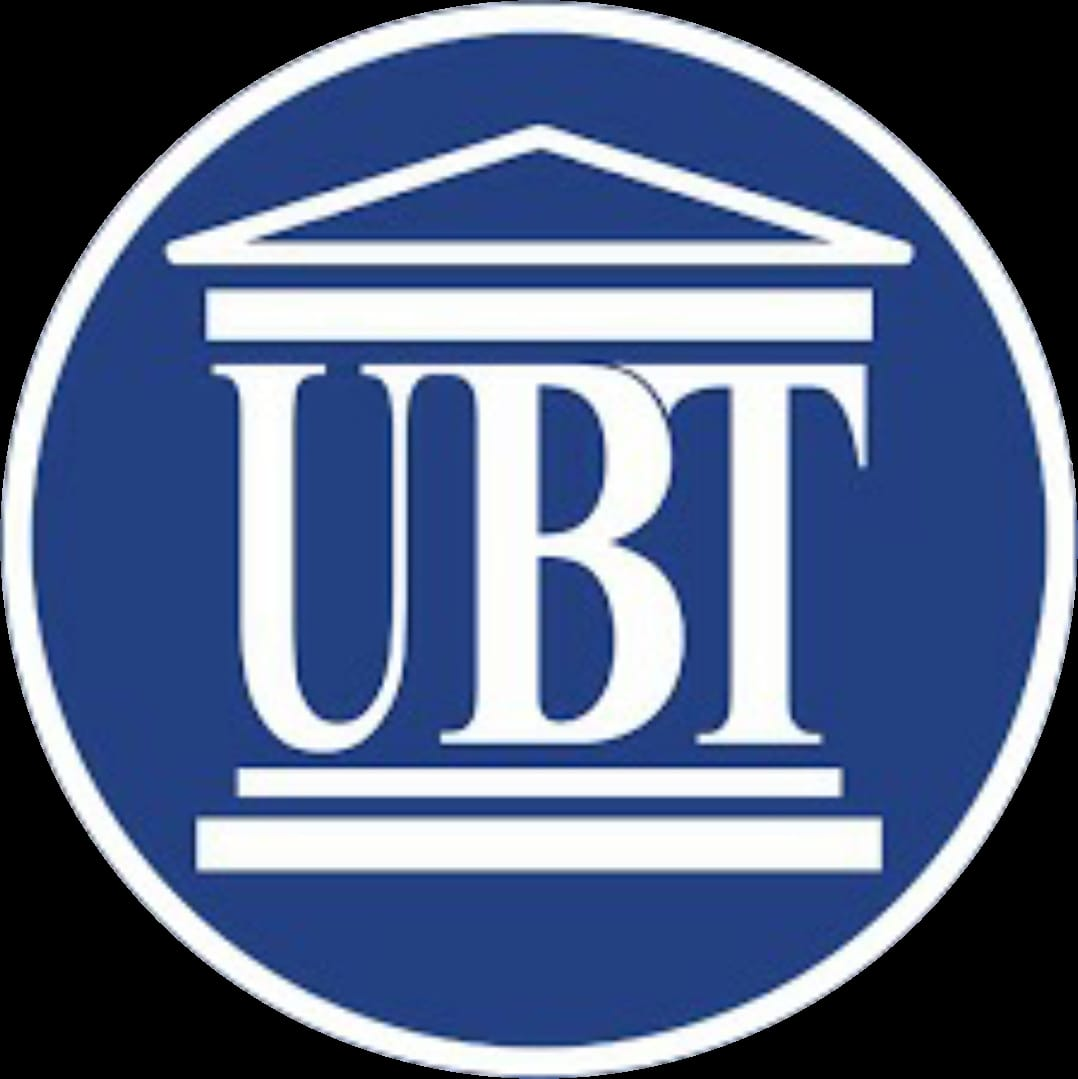
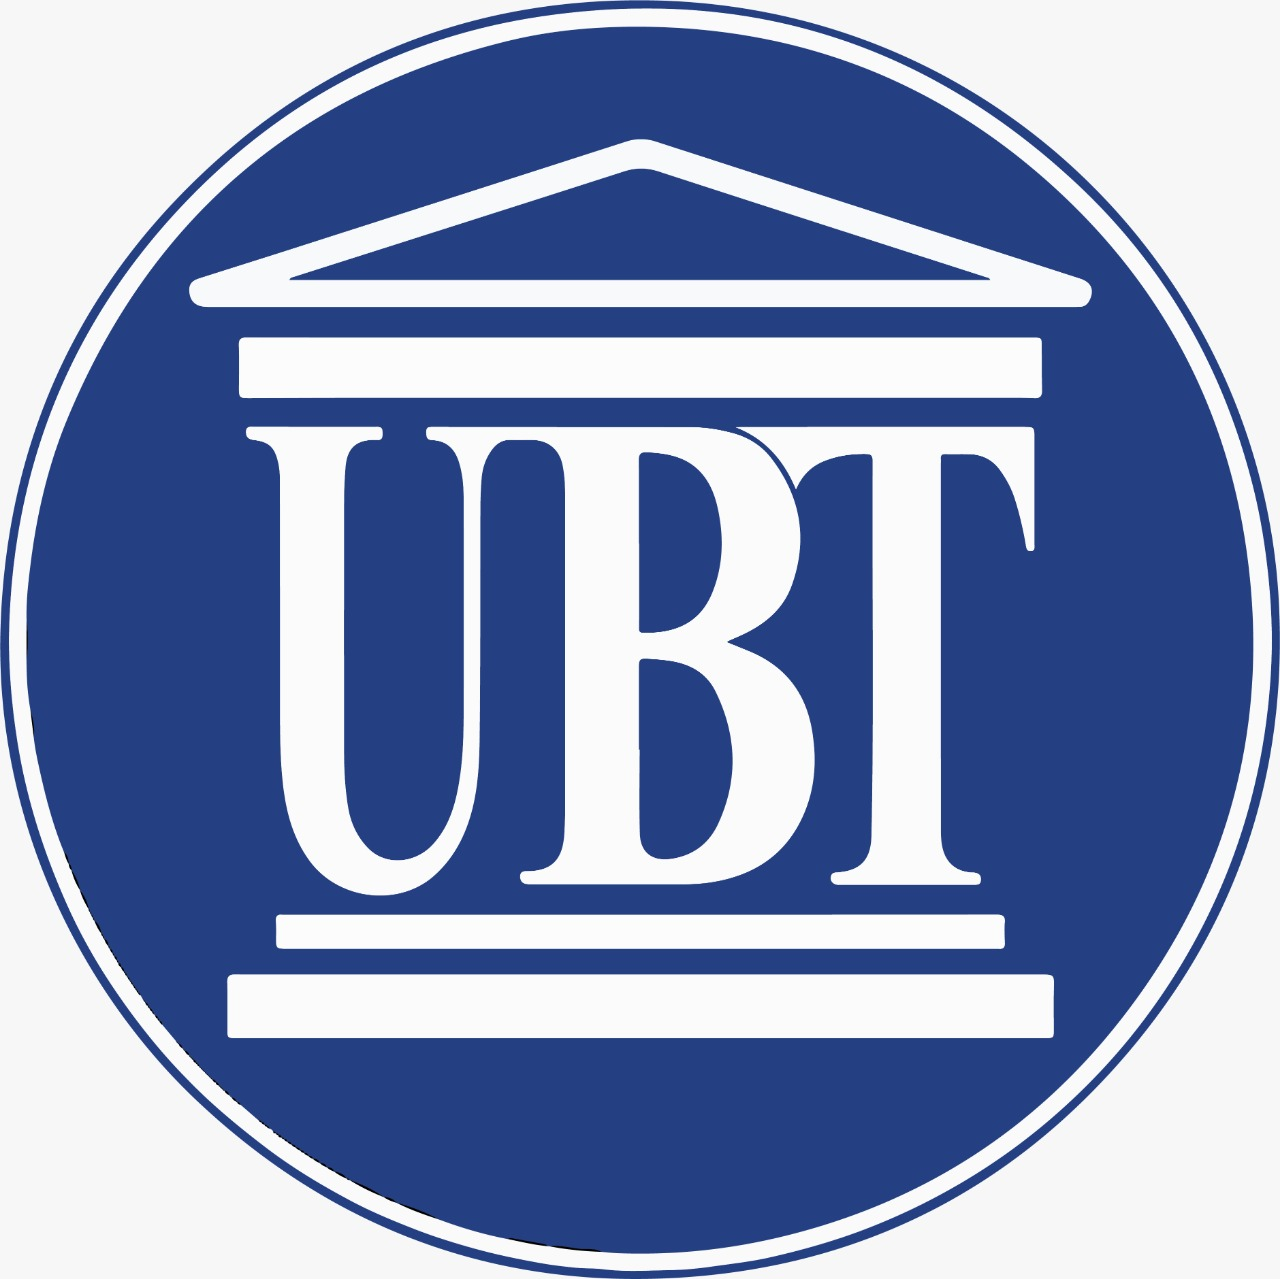
Detyra2

diff --git a/Detyra-Java2.html b/Detyra-Java2.html
@@ -3,7 +3,6 @@
 
 <html>
 <head>
-
     <title>Detyra Java2</title>
 </head>
 
@@ -44,7 +43,6 @@
                 <label form="">Ditelindja</label>
                 <input type="date">
                 </br>
-                
                 <input type="radio" name="Gjinia">
                 <label>Mashkull</label>
 

diff --git a/Detyra5/index.html b/Detyra5/index.html
@@ -9,7 +9,7 @@
 <body class="Bg">
     <header>
        <div class="Header">
-        <img src="UBT.jpg">
+        <img src="Untitled-1.png">
         <div class="HeaderButtons">     
             <button id="buttonat">Home</button>
             <button id="buttonat">About us</button>
